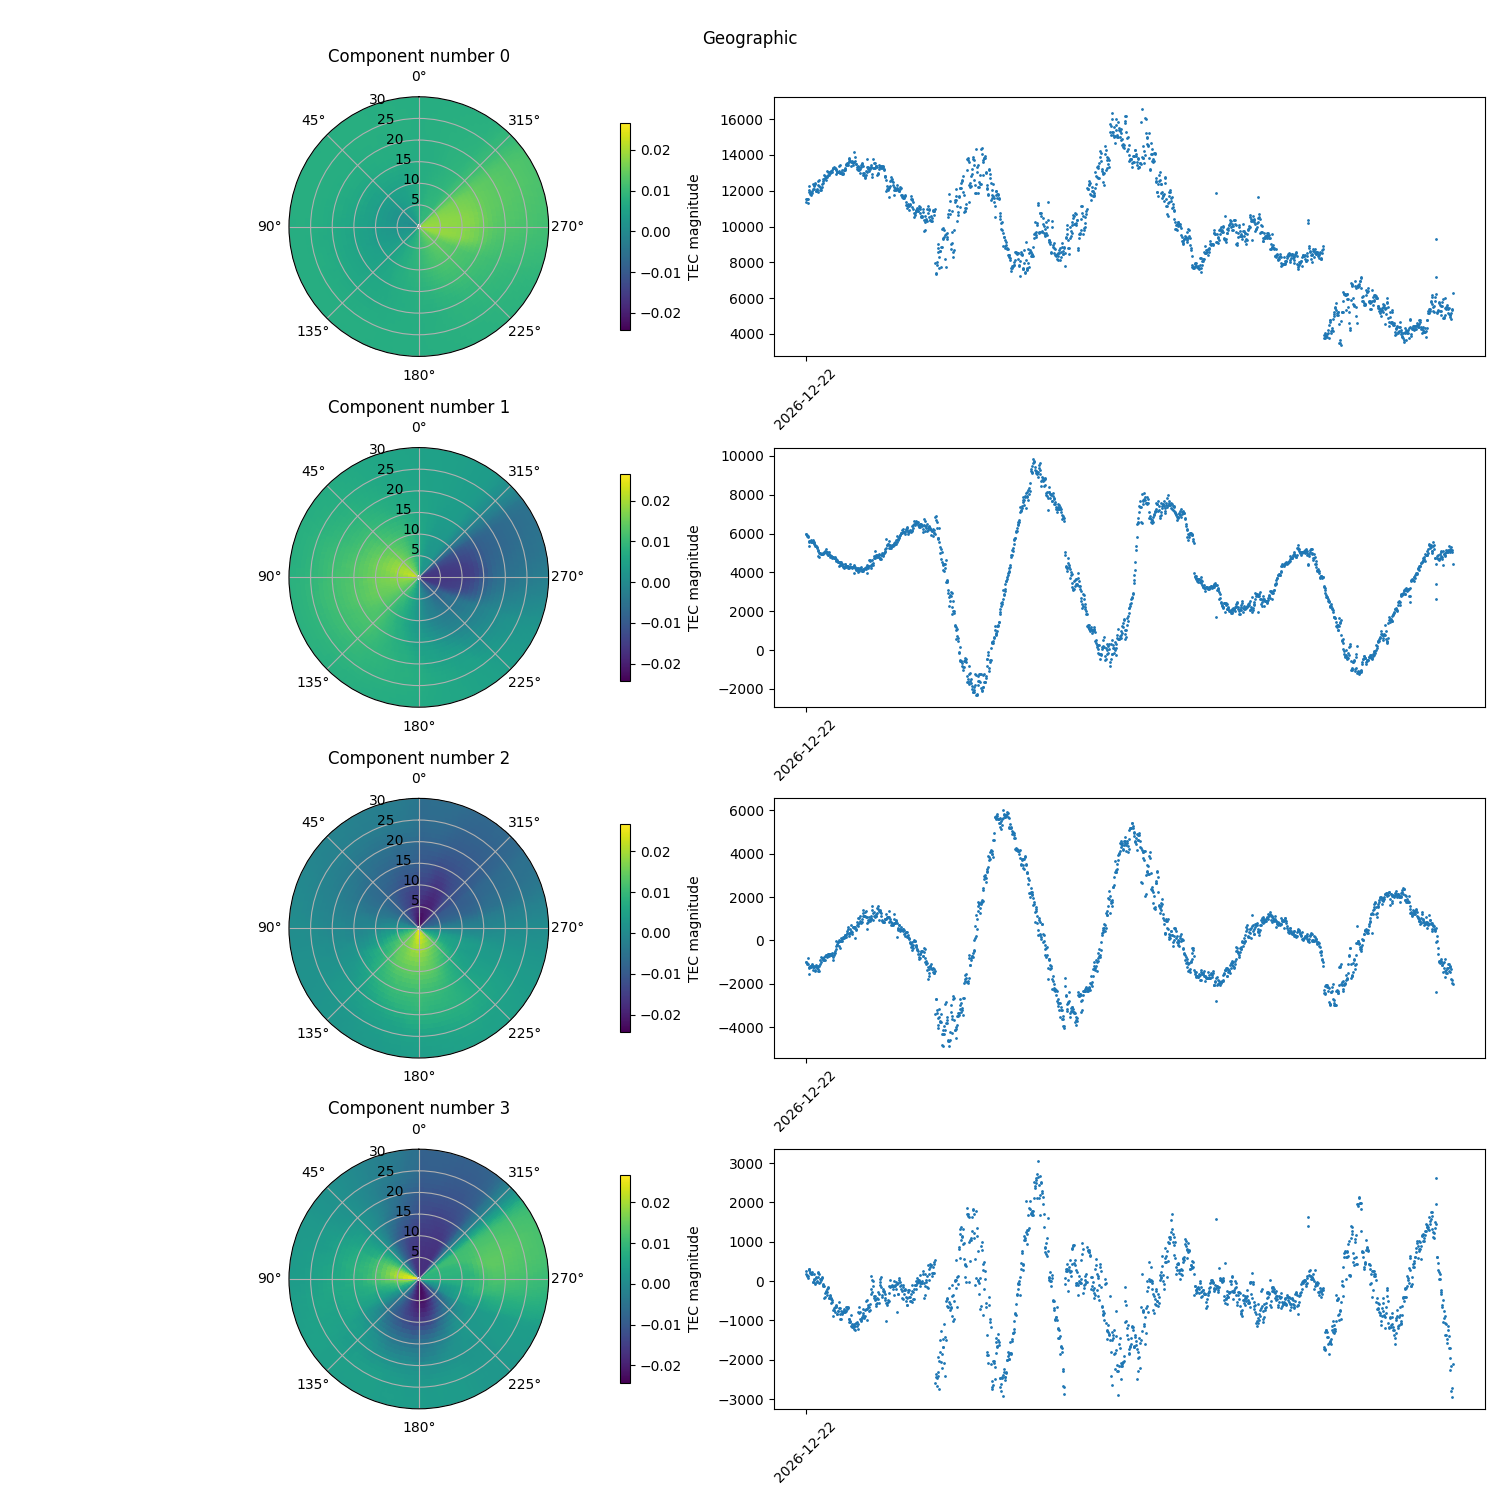
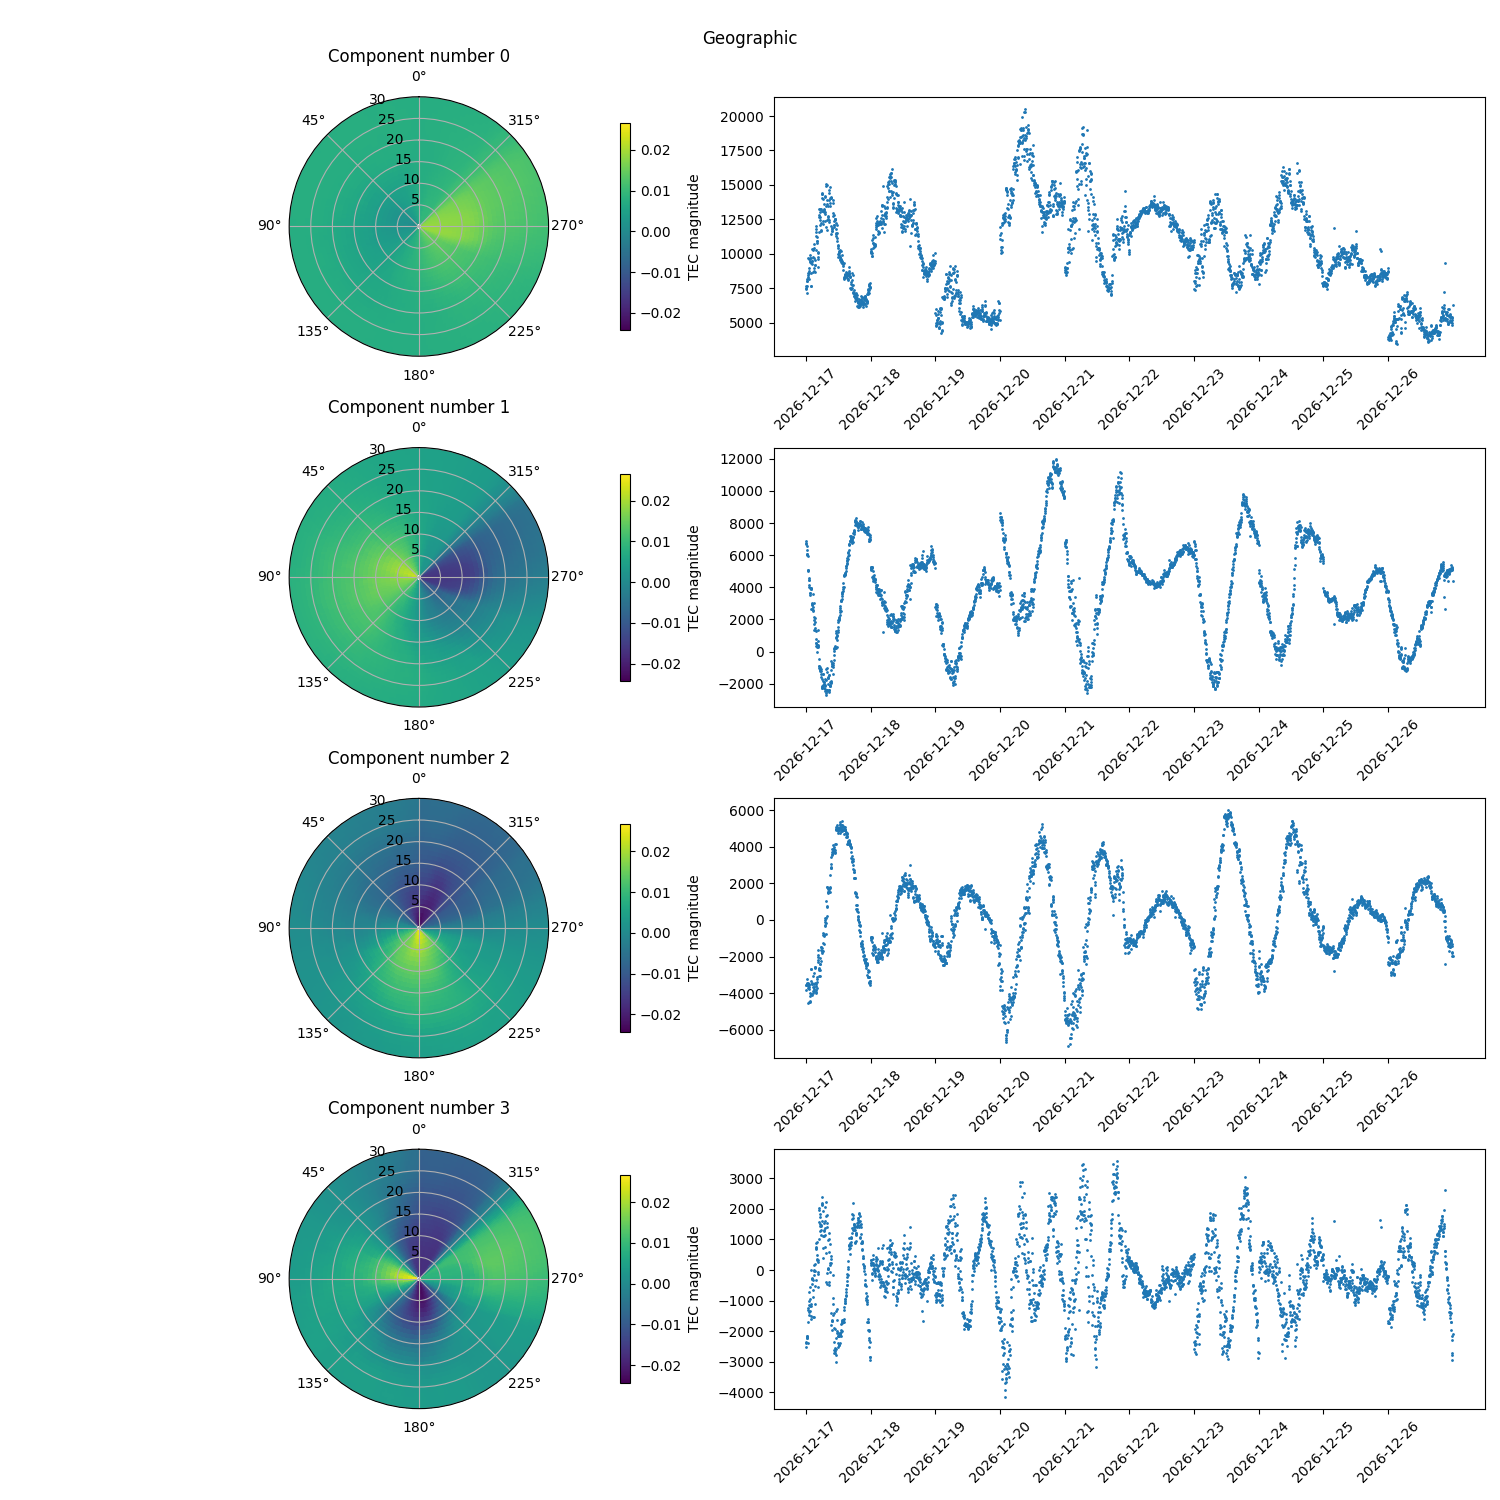
fixed time series plot labels

diff --git a/__main__.py b/__main__.py
@@ -103,7 +103,7 @@ def time_series_plot(fig:plt.figure, axs:plt.axes, time:np.ndarray, time_series:
     time = [datetime.datetime.fromtimestamp(t) for t in time]
     for i in range(time_series.shape[0]):
         axs[i].scatter(time, time_series[i], s=1)
-        axs[i].set_xticks([time[i] for i in range(len(time)) if i%10000==0])
+        axs[i].set_xticks([time[i] for i in range(len(time)) if i%(len(time)/10)==0])
         axs[i].set_xticklabels(axs[i].get_xticklabels(), rotation=45)
     fig.suptitle(title)
     fig.tight_layout()